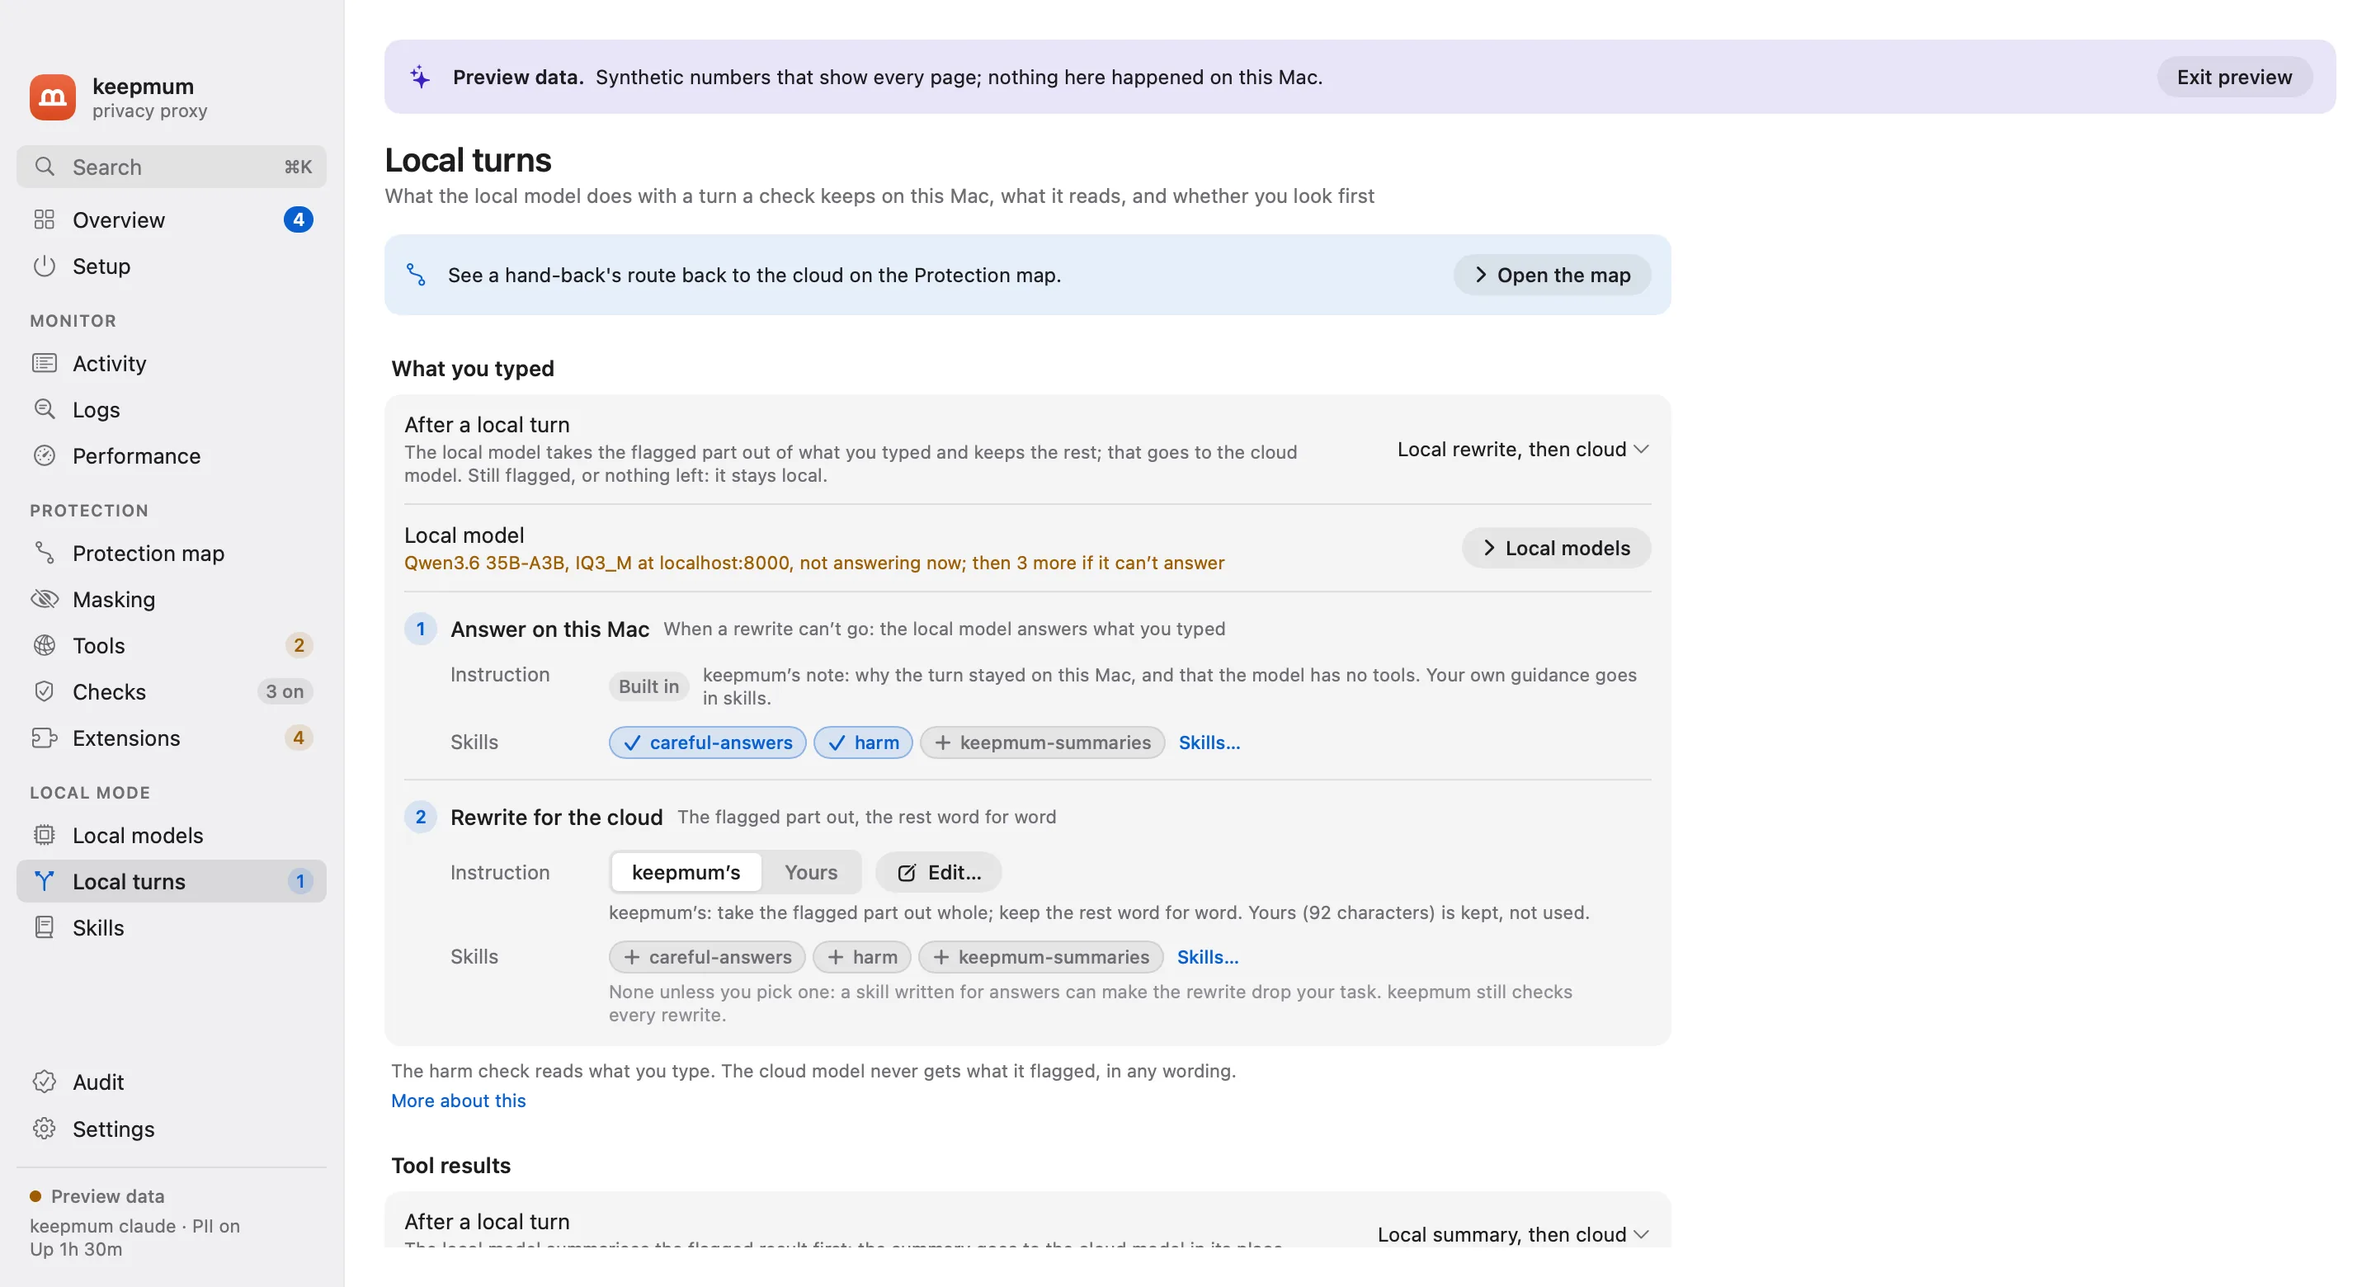
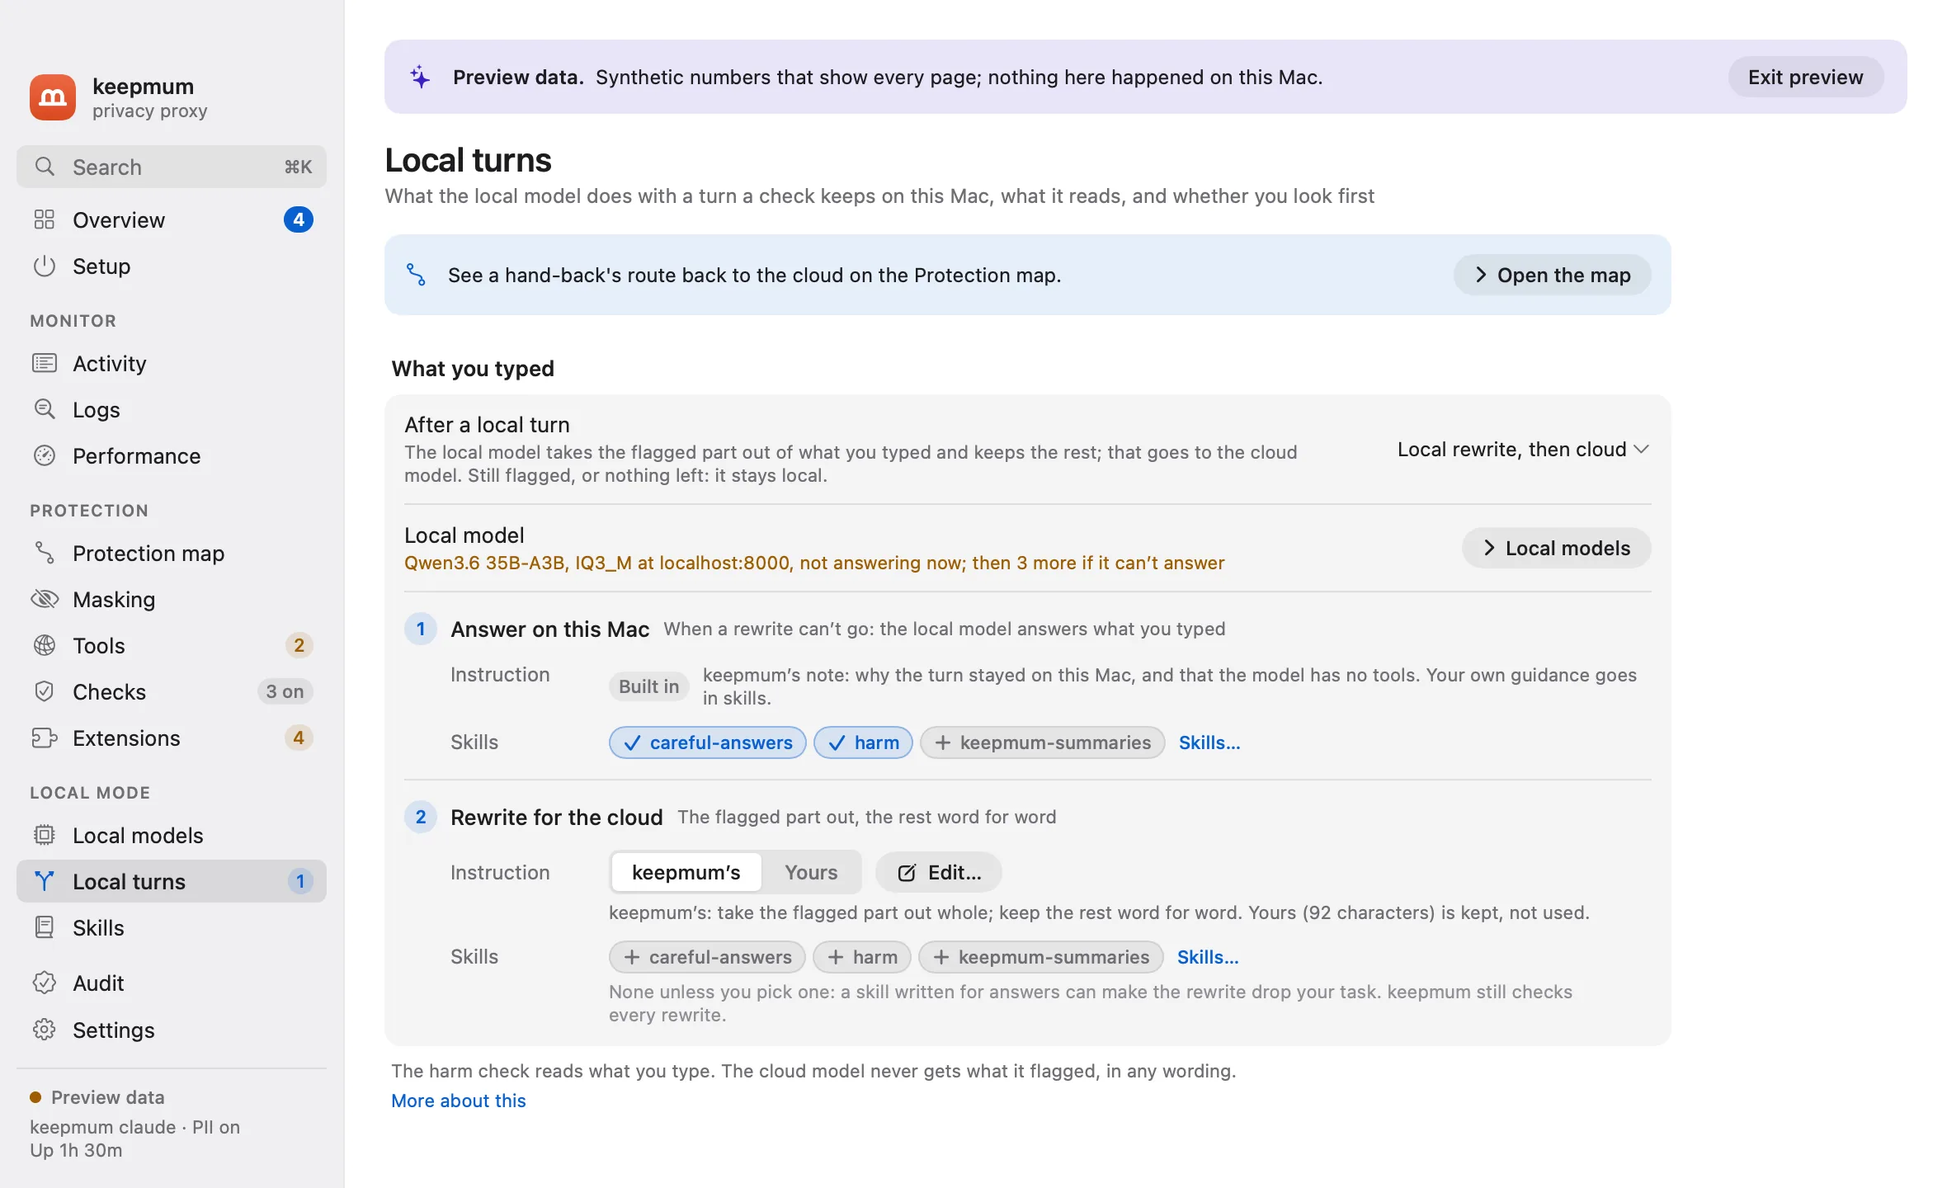
feat: keepmum.app shows what it does in the hero, and a section bar finds your place on the page
- The hero's card turns one .env over every 7 seconds: real keys on your Mac,
  keepmum placeholders as it leaves (still, on what leaves, with reduced
  motion; hidden on phones, where the full example follows).
- A bar slides in once the hero's nav scrolls away, with the section you are
  in marked and Download; on phones its links scroll sideways. Links to a
  section land below it.
- Section headings sit at the top of their sections; on a wide screen the
  Questions, Limitations and first section's headings stay in view beside
  their longer column.
- The install commands have a Copy button.
- The Local turns screenshot is rendered at 1180x720, so the pane fills it.

diff --git a/site/style.css b/site/style.css
@@ -82,13 +82,73 @@ a { color: var(--ink); }
 .fine { font-size: 16px; font-weight: 600; }
 .release { font-size: 15px; font-variant-numeric: tabular-nums; }
 .hero .release { margin-top: -16px; }
-.hero-mark { flex: 2 1 300px; display: flex; justify-content: center; }
-.hero-mark svg { width: 100%; max-width: 420px; height: auto; }
 @media (max-width: 600px) {
   .hero-body { padding-top: 32px; }
-  .hero-mark { display: none; }
   .lede { font-size: 20px; }
 }
+
+/* The hero's card: one .env, on your Mac and then as it leaves, turning over every 7 seconds. Each
+   value and its placeholder share a cell, so nothing moves when they swap. */
+.hero-demo { flex: 2 1 420px; min-width: 0; display: flex; justify-content: center; }
+.demo {
+  width: 100%; max-width: 520px; padding: 22px 24px 20px; border-radius: 22px;
+  background: var(--sand); color: var(--ink);
+  box-shadow: 0 40px 80px -36px rgba(26, 15, 11, 0.55);
+  animation: demo-card 7s ease-in-out infinite;
+}
+.demo-head { display: flex; align-items: center; justify-content: space-between; gap: 12px; margin-bottom: 16px; }
+.demo-file { font-family: var(--mono); font-size: 14px; font-weight: 500; }
+.demo-state, .demo-foot { display: inline-grid; }
+.demo-state > *, .demo-foot > * { grid-area: 1 / 1; }
+.demo-state > * { justify-self: end; padding: 5px 12px; border-radius: 999px; font-size: 13px; font-weight: 700; white-space: nowrap; }
+.demo-state .on-mac { background: rgba(26, 15, 11, 0.08); }
+.demo-state .on-wire { background: var(--coral); color: var(--ink); }
+.demo-body { font-family: var(--mono); font-size: 14.5px; line-height: 2; white-space: pre; overflow: hidden; }
+.demo-body .k { opacity: 0.6; }
+.sw { display: inline-grid; vertical-align: top; }
+.sw > * { grid-area: 1 / 1; }
+.sw .real { font-weight: 500; }
+.sw .ph { justify-self: start; padding: 0 5px; border-radius: 6px; background: var(--coral); color: var(--ink); }
+.demo-foot { margin-top: 14px; font-size: 14px; line-height: 1.45; opacity: 0.75; }
+.demo .on-mac, .demo .real { animation: demo-mac 7s ease-in-out infinite; }
+.demo .on-wire, .demo .ph { animation: demo-wire 7s ease-in-out infinite; }
+@keyframes demo-card { 0%, 40% { background: var(--sand); color: var(--ink); } 50%, 90% { background: var(--ink); color: #fff; } 100% { background: var(--sand); color: var(--ink); } }
+@keyframes demo-mac { 0%, 40% { opacity: 1; } 50%, 90% { opacity: 0; } 100% { opacity: 1; } }
+@keyframes demo-wire { 0%, 40% { opacity: 0; } 50%, 90% { opacity: 1; } 100% { opacity: 0; } }
+@media (prefers-reduced-motion: reduce) {
+  .demo, .demo .on-mac, .demo .real, .demo .on-wire, .demo .ph { animation: none; }
+  .demo { background: var(--ink); color: #fff; }
+  .demo .on-mac, .demo .real { opacity: 0; }
+}
+@media (max-width: 1080px) { .hero-demo { justify-content: flex-start; } }
+@media (max-width: 600px) { .hero-demo { display: none; } }
+
+/* The section bar: in once the hero's nav is gone (nav.js adds .show), the section in view marked. */
+.bar {
+  position: fixed; left: 0; right: 0; top: 0; z-index: 20;
+  background: rgba(255, 255, 255, 0.9); -webkit-backdrop-filter: saturate(1.6) blur(14px); backdrop-filter: saturate(1.6) blur(14px);
+  border-bottom: 1px solid var(--line);
+  transform: translateY(-100%); visibility: hidden;
+  transition: transform 0.25s ease, visibility 0s linear 0.25s;
+}
+.bar.show { transform: none; visibility: visible; transition: transform 0.25s ease; }
+@media (prefers-reduced-motion: reduce) { .bar, .bar.show { transition: none; } }
+.bar-in { display: flex; align-items: center; gap: 24px; height: 64px; }
+.bar .brand { font-size: 19px; }
+.bar nav { flex: 1; min-width: 0; display: flex; justify-content: flex-end; gap: 4px; overflow-x: auto; scrollbar-width: none; }
+.bar nav::-webkit-scrollbar { display: none; }
+.bar nav a { flex: none; padding: 8px 12px; border-radius: 999px; font-size: 15px; font-weight: 600; color: var(--body); text-decoration: none; white-space: nowrap; }
+.bar nav a:hover { color: var(--ink); background: var(--sand); }
+.bar nav a[aria-current="true"] { color: var(--ink); background: var(--sand); }
+.bar .btn.small { min-height: 40px; padding: 0 18px; font-size: 15px; flex: none; }
+@media (max-width: 760px) {
+  .bar-in { gap: 8px; }
+  .bar .brand span { display: none; }
+  .bar nav { justify-content: flex-start; mask-image: linear-gradient(to right, #000 85%, transparent); }
+  .bar nav a { padding: 8px 10px; font-size: 14px; }
+}
+/* A link to a section lands below the bar, not under it. */
+section[id], figure[id] { scroll-margin-top: 80px; }
 
 /* Sections */
 .section { padding-top: 112px; padding-bottom: 112px; }
@@ -97,6 +157,8 @@ a { color: var(--ink); }
 .split { display: flex; flex-wrap: wrap; gap: 48px 64px; }
 .split > .side { flex: 1 1 320px; display: flex; flex-direction: column; align-items: flex-start; gap: 16px; }
 .split > .main { flex: 2 1 560px; min-width: 0; }
+/* On a wide screen a split section's heading stays in view while its longer column scrolls by. */
+@media (min-width: 1000px) { .split > .side { position: sticky; top: 96px; align-self: flex-start; } }
 .cols { display: grid; grid-template-columns: repeat(auto-fit, minmax(min(260px, 100%), 1fr)); gap: 32px; }
 @media (max-width: 600px) { .section { padding-top: 80px; padding-bottom: 80px; } }
 
@@ -214,14 +276,14 @@ a { color: var(--ink); }
 
 /* Checks */
 .checks { display: flex; flex-direction: column; gap: 48px; padding-top: 32px; }
-.checks-head { display: flex; flex-wrap: wrap; gap: 24px 64px; align-items: flex-end; }
+.checks-head { display: flex; flex-wrap: wrap; gap: 24px 64px; align-items: flex-start; }
 .checks-head > * { flex: 1 1 420px; }
 @media (max-width: 600px) { .checks .shot { display: none; } }
 
 /* The Mac app */
 .app { background: var(--sand); }
 .app .wrap { display: flex; flex-direction: column; gap: 56px; }
-.app-head { display: flex; flex-wrap: wrap; gap: 24px 64px; align-items: flex-end; }
+.app-head { display: flex; flex-wrap: wrap; gap: 24px 64px; align-items: flex-start; }
 .app-head > * { flex: 1 1 420px; }
 .shots { position: relative; padding-bottom: 120px; }
 .shot { border-radius: 20px; overflow: hidden; background: #fff; border: 1px solid rgba(26, 15, 11, 0.08); box-shadow: 0 40px 80px -40px rgba(26, 15, 11, 0.35); }
@@ -266,6 +328,9 @@ a { color: var(--ink); }
 .way.cli { background: var(--ink); color: #fff; align-items: stretch; }
 .way.cli p { color: var(--on-ink); }
 .way pre { padding: 20px; border-radius: 14px; background: var(--code); overflow-x: auto; font-family: var(--mono); font-size: 14px; line-height: 1.8; color: #fff; }
+.code { position: relative; min-width: 0; }
+.copy { position: absolute; top: 10px; right: 10px; padding: 6px 12px; border: 0; border-radius: 999px; background: rgba(255, 255, 255, 0.12); color: #fff; font: inherit; font-size: 13px; font-weight: 600; cursor: pointer; }
+.copy:hover { background: rgba(255, 255, 255, 0.2); }
 @media (max-width: 600px) { .way { padding: 24px; } .way pre { font-size: 13px; } }
 
 /* Questions */

diff --git a/site/index.html b/site/index.html
@@ -25,6 +25,7 @@
 <script src="tour-data.js" defer></script>
 <script src="tour.js" defer></script>
 <script src="video.js" defer></script>
+<script src="nav.js" defer></script>
 <meta property="og:type" content="website">
 <meta property="og:site_name" content="keepmum">
 <meta property="og:locale" content="en_US">
@@ -187,7 +188,25 @@
 <body>
 <a class="skip" href="#main">Skip to content</a>
 
-<header class="hero">
+<!-- Slides in once the hero's own nav has scrolled away (nav.js), with the section you are in marked. -->
+<div class="bar" id="bar">
+  <div class="wrap bar-in">
+    <a class="brand" href="#top" aria-label="keepmum, back to the top">
+      <svg width="26" height="26" viewBox="0 0 100 100" aria-hidden="true"><path d="M21.6 69.8 L21.6 46.3 C21.6 37 27.8 30.9 35.8 30.9 C43.8 30.9 50 37 50 46.3 L50 69.8 M50 69.8 L50 46.3 C50 37 56.2 30.9 64.2 30.9 C72.2 30.9 78.4 37 78.4 46.3 L78.4 69.8 M12.9 69.8 L87.1 69.8" fill="none" stroke="currentColor" stroke-width="11" stroke-linecap="round" stroke-linejoin="round"/></svg>
+      <span>keepmum</span>
+    </a>
+    <nav aria-label="Sections">
+      <a href="#how" data-for="how">How it works</a>
+      <a href="#checks" data-for="checks map extensions">Checks</a>
+      <a href="#app" data-for="app">Mac app</a>
+      <a href="#limits" data-for="limits">Limitations</a>
+      <a href="#faq" data-for="faq">Questions</a>
+    </nav>
+    <a class="btn small" href="#install" data-for="install">Download</a>
+  </div>
+</div>
+
+<header class="hero" id="top">
   <div class="wrap top">
     <a class="brand" href="/">
       <svg width="30" height="30" viewBox="0 0 100 100" aria-hidden="true"><path d="M21.6 69.8 L21.6 46.3 C21.6 37 27.8 30.9 35.8 30.9 C43.8 30.9 50 37 50 46.3 L50 69.8 M50 69.8 L50 46.3 C50 37 56.2 30.9 64.2 30.9 C72.2 30.9 78.4 37 78.4 46.3 L78.4 69.8 M12.9 69.8 L87.1 69.8" fill="none" stroke="#1A0F0B" stroke-width="11" stroke-linecap="round" stroke-linejoin="round"/></svg>
@@ -218,8 +237,20 @@
       <p class="release">Version <span data-release="version">0.1.0a6</span> · built <time data-release="date" datetime="2026-11-09T09:14:26Z">Nov 9, 2026, 09:14 UTC</time></p>
       <p class="fine">For Claude Code, Codex, the Antigravity CLI, Gemini CLI, pi and opencode · Free and open source</p>
     </div>
-    <div class="hero-mark">
-      <svg viewBox="0 0 100 100" role="img" aria-label="The keepmum mark: a lowercase m closed off by a line, like a shut mouth"><path d="M21.6 69.8 L21.6 46.3 C21.6 37 27.8 30.9 35.8 30.9 C43.8 30.9 50 37 50 46.3 L50 69.8 M50 69.8 L50 46.3 C50 37 56.2 30.9 64.2 30.9 C72.2 30.9 78.4 37 78.4 46.3 L78.4 69.8 M12.9 69.8 L87.1 69.8" fill="none" stroke="#FFFFFF" stroke-width="8" stroke-linecap="round" stroke-linejoin="round"/></svg>
+    <!-- What keepmum does, in one card: the same .env on your Mac, then as it leaves. It turns over
+         by itself (style.css); with reduced motion it shows what leaves. -->
+    <div class="hero-demo" role="img" aria-label="An .env file your agent read. On your Mac it holds a Stripe key, a database password and a session secret; sent to the provider, each one is a keepmum placeholder.">
+      <div class="demo" aria-hidden="true">
+        <div class="demo-head">
+          <span class="demo-file">.env</span>
+          <span class="demo-state"><span class="on-mac">On your Mac</span><span class="on-wire">Sent to the provider</span></span>
+        </div>
+        <pre class="demo-body"><span class="k">STRIPE_KEY</span>=<span class="sw"><span class="real">sk_live_51Hx8fQ2eZvKYlo2C7a9Rb</span><span class="ph">KEEPMUM_SECRET_7f3a9c2e</span></span>
+<span class="k">DB_PASSWORD</span>=<span class="sw"><span class="real">Zq8vX2mN4pL7kR9t</span><span class="ph">KEEPMUM_SECRET_3b91d0aa</span></span>
+<span class="k">SESSION_SECRET</span>=<span class="sw"><span class="real">9f4e1c7a2b8d6e3f0a5c</span><span class="ph">KEEPMUM_SECRET_c4d82e19</span></span>
+<span class="k">APP_ENV</span>=production</pre>
+        <p class="demo-foot"><span class="on-mac">Your agent reads the real values</span><span class="on-wire">The provider gets placeholders; they turn back into real values on your Mac</span></p>
+      </div>
     </div>
   </div>
 </header>
@@ -298,7 +329,7 @@
         <p>Checks the shell commands a reply asks your agent to run: a download piped into a shell, deleting your home folder, erasing a disk, credentials sent over the network. Seven rules, no download.</p>
       </div>
     </div>
-    <figure class="shot"><img src="img/checks.webp" width="2880" height="1560" alt="keepmum’s Local turns settings: for what you typed and for tool results, what follows a local turn, the local model, and each step it takes with its instruction and skills" loading="lazy"></figure>
+    <figure class="shot"><img src="img/checks.webp" width="2360" height="1440" alt="keepmum’s Local turns settings: for what you typed and for tool results, what follows a local turn, the local model, and each step it takes with its instruction and skills" loading="lazy"></figure>
     <div class="checks-head">
       <h2 id="review-title">You look before it goes.</h2>
       <p class="intro">Turn on review, and nothing a check flagged goes to the cloud until you say so. A panel shows what the local model wrote beside the original: send it, edit it, ask the local model to change it, or keep the turn on your Mac. Or review the whole turn in one window, every flagged piece side by side, each rewritten, sent as it was (after a warning) or removed. The clock pauses while the local model writes, and never runs past what your agent waits. A demo in the app shows how it works before one comes up.</p>
@@ -424,7 +455,7 @@
         <div class="way cli">
           <h3>The command line</h3>
           <p>With Python 3.12, uv and the Xcode command line tools.</p>
-          <pre><code>git clone https://github.com/blueandhack/keepmum.git
+          <pre id="cli-steps"><code>git clone https://github.com/blueandhack/keepmum.git
 cd keepmum &amp;&amp; uv tool install --editable .
 native/pf-serve/build.sh
 keepmum setup

diff --git a/site/nav.js b/site/nav.js
@@ -1,0 +1,63 @@
+// keepmum.app's section bar and the install command's Copy button.
+//
+// The bar (#bar) slides in once the hero's own nav has scrolled out of view, and marks the link of
+// the section in the middle of the screen (a link's data-for lists the section ids it stands for).
+// Without this script the bar stays hidden and the hero's nav is the page's nav.
+(function () {
+  "use strict";
+  const bar = document.getElementById("bar");
+  const top = document.querySelector(".hero .top");
+  if (bar && top && "IntersectionObserver" in window) {
+    new IntersectionObserver(([e]) => bar.classList.toggle("show", !e.isIntersecting)).observe(top);
+
+    const links = [...bar.querySelectorAll("[data-for]")];
+    const owner = new Map();
+    for (const a of links) for (const id of a.dataset.for.split(" ")) owner.set(id, a);
+    const sections = [...owner.keys()].map((id) => document.getElementById(id)).filter(Boolean);
+    const visible = new Set();
+    const mark = () => {
+      // The first section, in page order, that crosses the middle of the screen.
+      const s = sections.find((x) => visible.has(x));
+      const current = s ? owner.get(s.id) : null;
+      for (const a of links) {
+        if (a === current) a.setAttribute("aria-current", "true");
+        else a.removeAttribute("aria-current");
+      }
+      // On a phone the links scroll sideways: keep the marked one in view.
+      const strip = current && current.parentElement;
+      if (strip && strip.tagName === "NAV" && strip.scrollWidth > strip.clientWidth) {
+        const l = current.offsetLeft - strip.offsetLeft, r = l + current.offsetWidth;
+        if (l < strip.scrollLeft || r > strip.scrollLeft + strip.clientWidth) strip.scrollTo({ left: l - 8 });
+      }
+    };
+    const io = new IntersectionObserver((entries) => {
+      for (const e of entries) e.isIntersecting ? visible.add(e.target) : visible.delete(e.target);
+      mark();
+    }, { rootMargin: "-50% 0px -50% 0px" });
+    sections.forEach((s) => io.observe(s));
+  }
+
+  // Copy, on the command-line install steps.
+  const pre = document.getElementById("cli-steps");
+  if (pre && navigator.clipboard) {
+    const box = document.createElement("div");
+    box.className = "code";
+    pre.replaceWith(box);
+    box.appendChild(pre);
+    const button = document.createElement("button");
+    button.type = "button";
+    button.className = "copy";
+    button.textContent = "Copy";
+    button.setAttribute("aria-label", "Copy the install commands");
+    button.addEventListener("click", async () => {
+      try {
+        await navigator.clipboard.writeText(pre.innerText.trim() + "\n");
+        button.textContent = "Copied";
+      } catch {
+        button.textContent = "Select and copy";
+      }
+      setTimeout(() => { button.textContent = "Copy"; }, 2000);
+    });
+    box.appendChild(button);
+  }
+})();

diff --git a/mac/Sources/Keepmum/KeepmumApp.swift b/mac/Sources/Keepmum/KeepmumApp.swift
@@ -567,8 +567,9 @@ enum Snapshotter {
         paused.agentLimit = 360
         render(TurnReviewView(center: .shared, turn: paused, previewPause: 12).frame(width: 1040, height: 720).background(Theme.canvas),
                to: "\(dir)/review-turn-paused-light.png", dark: false)
-        // For keepmum.app: Local turns at the size of the site's figure (1440x780), with both checks local.
-        render(Dashboard(store: store, engine: .preview(bothLocal: true), page: .settings, settingsPane: .handback).frame(width: 1440, height: 780),
+        // For keepmum.app: Local turns at the size of the site's figure (1180x720), with both checks local.
+        // Narrow enough that the pane's column (Settings' widest, 780) fills it.
+        render(Dashboard(store: store, engine: .preview(bothLocal: true), page: .settings, settingsPane: .handback).frame(width: 1180, height: 720),
                to: "\(dir)/site-turns-light.png", dark: false)
         // For keepmum.app: the Protection map with both checks local, a jailbreak sample on its way.
         render(mapPage(store, .preview(bothLocal: true), sample: .jailbreak, width: 1440, height: 1080),
